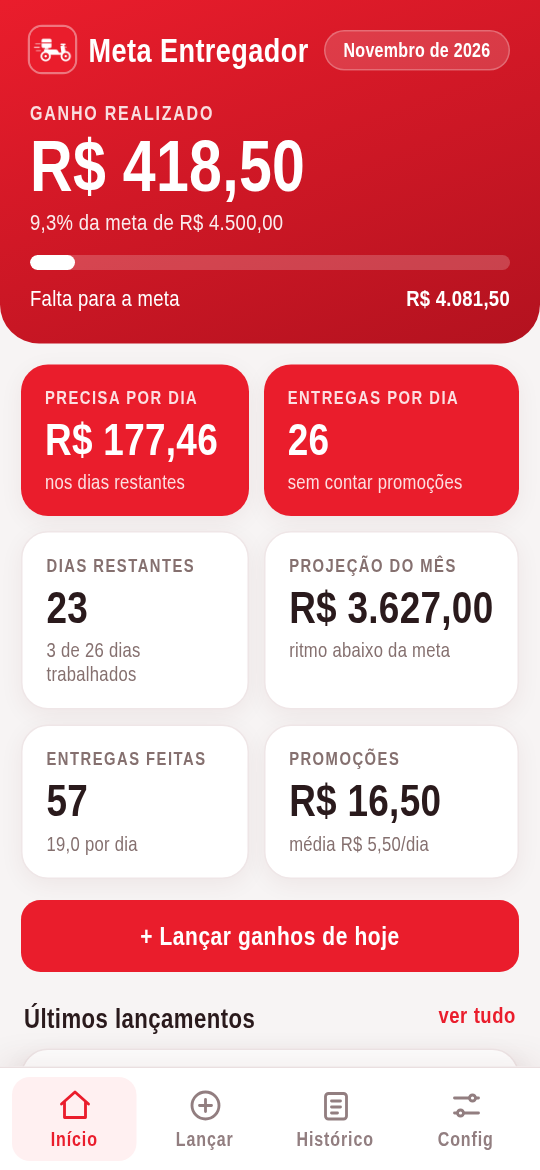
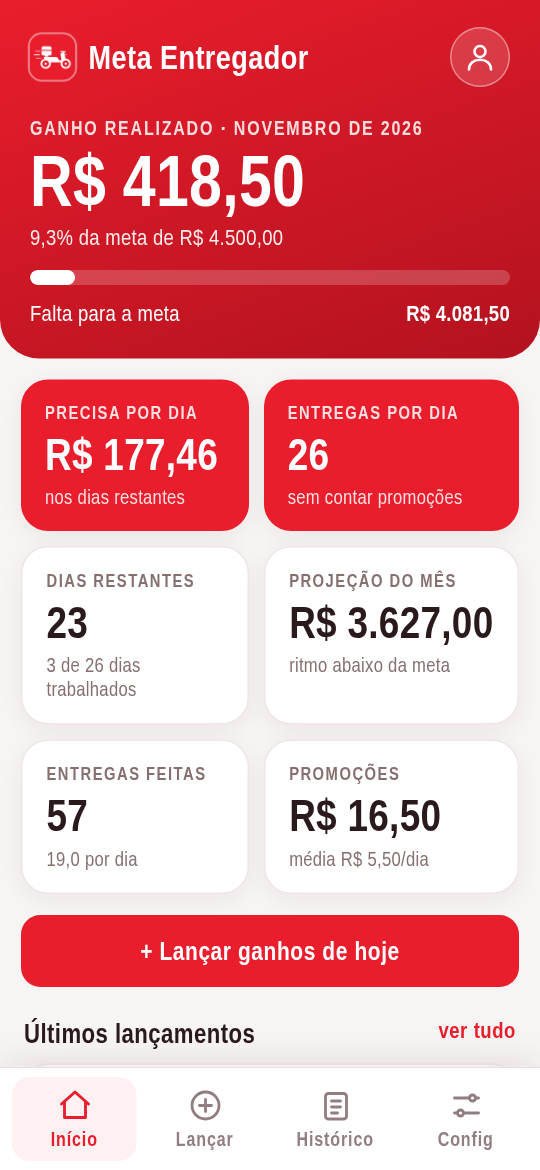
Add files via upload

diff --git a/index.html b/index.html
@@ -28,9 +28,13 @@ header{background:linear-gradient(160deg,var(--red),var(--dark));color:#fff;padd
 header .top{display:flex;justify-content:space-between;align-items:center}
 header h1{margin:0;font-size:22px;font-weight:700;letter-spacing:.3px;display:flex;align-items:center;gap:9px}
 header h1 img{width:30px;height:30px;border-radius:8px;box-shadow:0 0 0 1.5px #ffffff66}
-header .month{font-size:13px;font-weight:700;background:#ffffff26;border:1px solid #ffffff40;padding:5px 12px;border-radius:99px}
+.avatar{position:relative;width:40px;height:40px;border-radius:50%;padding:0;background:#ffffff26;border:1.5px solid #ffffff66;color:#fff;display:flex;align-items:center;justify-content:center;flex:none}
+.avatar img{width:100%;height:100%;border-radius:50%;object-fit:cover}
+.avatar svg{width:22px;height:22px;stroke:#fff;fill:none;stroke-width:1.9;stroke-linecap:round;stroke-linejoin:round}
+.avatar .st{position:absolute;right:-1px;bottom:-1px;width:12px;height:12px;border-radius:50%;border:2px solid var(--red);background:#9aa0a6}
+.avatar .st.ok{background:#34d27b}.avatar .st.sync{background:#ffcc3d}.avatar .st.err{background:#2a1a1c}
 .hero{margin-top:20px}
-.hero .lbl{font-size:13px;font-weight:700;opacity:.85;letter-spacing:1.2px}
+.hero .lbl{font-size:13px;font-weight:700;opacity:.85;letter-spacing:1.2px;text-transform:uppercase}
 .hero .big{font-size:48px;font-weight:700;line-height:1.05;margin:2px 0 4px;letter-spacing:.2px}
 .hero .meta{font-size:15px;opacity:.92}
 .progress{height:10px;background:#ffffff33;border-radius:99px;overflow:hidden;margin-top:14px}
@@ -73,14 +77,24 @@ nav button.active{color:var(--red);background:#fff0f1}
 .toast{position:fixed;left:50%;bottom:98px;transform:translateX(-50%);background:#2a1a1c;color:#fff;padding:10px 18px;border-radius:99px;font-size:15px;opacity:0;pointer-events:none;transition:.3s;z-index:20;white-space:nowrap}
 .toast.show{opacity:1}
 .hidden{display:none!important}
+.acc-text{font-size:15px;color:#5d4749;line-height:1.35;margin-bottom:14px}
+.gbtn{width:100%;display:flex;align-items:center;justify-content:center;gap:10px;background:#fff;color:#3c4043;border:1px solid #dadce0;font-weight:700}
+.gbtn:active{background:#f6f6f6}.gbtn svg{width:20px;height:20px}
+.acc{display:flex;align-items:center;gap:12px;margin-bottom:12px}
+.acc .pic{width:46px;height:46px;border-radius:50%;background:var(--red);color:#fff;display:flex;align-items:center;justify-content:center;font-weight:700;font-size:20px;overflow:hidden;flex:none}
+.acc .pic img{width:100%;height:100%;object-fit:cover}
+.acc .n{font-weight:700;font-size:18px}.acc .e{font-size:14px;color:var(--muted);word-break:break-all}
+.status{display:flex;align-items:center;gap:8px;font-size:15px;background:#f8f3f3;border-radius:12px;padding:10px 12px;margin-bottom:12px}
+.status .dot{width:10px;height:10px;border-radius:50%;background:#9aa0a6;flex:none}
+.status.ok .dot{background:var(--green)}.status.sync .dot{background:#f5a300}.status.err .dot{background:var(--red)}
 </style>
 </head>
 <body>
 <div class="app">
 <header>
-  <div class="top"><h1><img src="icons/icon-192.png" alt="">Meta Entregador</h1><div class="month" id="month"></div></div>
+  <div class="top"><h1><img src="icons/icon-192.png" alt="">Meta Entregador</h1><button class="avatar" id="avatarBtn" onclick="go('cfg')" aria-label="Conta e backup"></button></div>
   <div class="hero">
-    <div class="lbl">GANHO REALIZADO</div>
+    <div class="lbl">GANHO REALIZADO · <span id="monthLbl"></span></div>
     <div class="big" id="earned">R$ 0,00</div>
     <div class="meta" id="goalText"></div>
     <div class="progress"><div class="bar" id="bar"></div></div>
@@ -128,7 +142,9 @@ nav button.active{color:var(--red);background:#fff0f1}
   </section>
 
   <section class="tab" id="tab-cfg">
-    <h2 style="margin-top:4px">Parâmetros da meta</h2>
+    <h2 style="margin-top:4px">Conta e backup</h2>
+    <div class="card" id="accountCard"></div>
+    <h2>Parâmetros da meta</h2>
     <div class="card">
       <div class="field"><label>Meta mensal (R$)</label><input id="goal" type="number" inputmode="decimal" step="0.01"></div>
       <div class="row2">
@@ -144,7 +160,7 @@ nav button.active{color:var(--red);background:#fff0f1}
     <p class="note hidden" id="iosHint">No iPhone: toque em Compartilhar e depois em “Adicionar à Tela de Início”.</p>
     <h2>Dados</h2>
     <div class="card"><button class="btn danger" onclick="clearAll()">Apagar todos os lançamentos</button></div>
-    <p class="note" style="text-align:center">Meta Entregador v1.2 · dados salvos neste aparelho</p>
+    <p class="note" style="text-align:center">Meta Entregador v1.3</p>
   </section>
 </main>
 
@@ -159,26 +175,131 @@ nav button.active{color:var(--red);background:#fff0f1}
 
 <script>
 const KEY='meta-entregador-v1';
-let state=JSON.parse(localStorage.getItem(KEY)||'null')||{goal:4500,rate:7,workDays:26,entries:[]};
+const DEFAULT={goal:4500,rate:7,workDays:26,settingsAt:0,entries:[],deleted:[]};
+let state=Object.assign({},DEFAULT,JSON.parse(localStorage.getItem(KEY)||'null')||{});
+state.entries=state.entries||[];state.deleted=state.deleted||[];
 const $=id=>document.getElementById(id);
 const fmt=v=>Number(v||0).toLocaleString('pt-BR',{style:'currency',currency:'BRL'});
 const num=id=>Number($(id).value||0);
 const br=d=>d.split('-').reverse().join('/');
+const esc=t=>String(t==null?'':t).replace(/[&<>"']/g,c=>({'&':'&amp;','<':'&lt;','>':'&gt;','"':'&quot;',"'":'&#39;'}[c]));
 function today(){const d=new Date();return d.getFullYear()+'-'+String(d.getMonth()+1).padStart(2,'0')+'-'+String(d.getDate()).padStart(2,'0')}
-function persist(){localStorage.setItem(KEY,JSON.stringify(state))}
-function toast(m){const t=$('toast');t.textContent=m;t.classList.add('show');setTimeout(()=>t.classList.remove('show'),1800)}
+function toast(m){const t=$('toast');t.textContent=m;t.classList.add('show');clearTimeout(toast._t);toast._t=setTimeout(()=>t.classList.remove('show'),2200)}
 function go(tab){
   document.querySelectorAll('.tab').forEach(s=>s.classList.toggle('active',s.id==='tab-'+tab));
   document.querySelectorAll('nav button').forEach(b=>b.classList.toggle('active',b.dataset.tab===tab));
   window.scrollTo({top:0,behavior:'smooth'});
 }
+
+/* ---------- dados locais + sincronização ---------- */
+const core=s=>({goal:s.goal,rate:s.rate,workDays:s.workDays,settingsAt:s.settingsAt||0,
+  entries:[...(s.entries||[])].sort((a,b)=>a.id-b.id||0).map(e=>({id:e.id,date:e.date,deliveries:e.deliveries||0,promo:e.promo||0,other:e.other||0})),
+  deleted:[...new Set(s.deleted||[])].sort((a,b)=>a-b)});
+const same=(a,b)=>JSON.stringify(core(a))===JSON.stringify(core(b));
+function merge(a,b){
+  const del=new Set([...(a.deleted||[]),...(b.deleted||[])]);
+  const map=new Map();
+  [...(a.entries||[]),...(b.entries||[])].forEach(e=>{if(!del.has(e.id)&&!map.has(e.id))map.set(e.id,e)});
+  const pick=(a.settingsAt||0)>=(b.settingsAt||0)&&a.goal!=null?a:(b.goal!=null?b:a);
+  return core({goal:pick.goal,rate:pick.rate,workDays:pick.workDays,settingsAt:pick.settingsAt||0,entries:[...map.values()],deleted:[...del]});
+}
+let Cloud=null,cloudState='loading',user=null,ready=false,dirty=false,syncStatus='idle',syncErr='',lastSync=Number(localStorage.getItem(KEY+'-last')||0),pushT=null,unwatch=null;
+function persist(skipSync){
+  localStorage.setItem(KEY,JSON.stringify(core(state)));
+  if(!skipSync){dirty=true;if(user){clearTimeout(pushT);pushT=setTimeout(pushNow,500)}}
+}
+function setStatus(st,err){syncStatus=st;syncErr=err?(err.code||err.message||String(err)):'';renderAccount()}
+function markSynced(){lastSync=Date.now();localStorage.setItem(KEY+'-last',lastSync)}
+async function pushNow(){
+  if(!user||!ready||!Cloud)return;
+  if(!navigator.onLine){setStatus('offline');return}
+  setStatus('syncing');
+  try{await Cloud.push(user.uid,Object.assign(core(state),{updatedAt:Date.now()}));dirty=false;markSynced();setStatus('ok')}
+  catch(e){setStatus('error',e)}
+}
+function onRemote(remote,pending){
+  const merged=merge(state,remote||{});
+  if(!same(merged,state)){state=Object.assign({},state,merged);persist(true);render()}
+  if(pending)return;
+  ready=true;
+  if(!remote||!same(merged,remote))pushNow();
+  else{dirty=false;markSynced();setStatus('ok')}
+}
+function startUser(u){
+  user=u;ready=false;setStatus('syncing');
+  if(unwatch)unwatch();
+  unwatch=Cloud.watch(u.uid,onRemote,err=>setStatus('error',err));
+}
+function stopUser(){if(unwatch)unwatch();unwatch=null;user=null;ready=false;syncStatus='idle';renderAccount()}
+async function signIn(){
+  if(!Cloud||cloudState!=='ready'){await bootCloud();if(cloudState!=='ready'){toast('Sem conexão com o serviço do Google');return}}
+  toast('Abrindo login do Google…');
+  const r=await Cloud.signIn();
+  if(!r.ok){
+    const m={'auth/popup-closed-by-user':'','auth/cancelled-popup-request':'','auth/unauthorized-domain':'Domínio não autorizado no Firebase','auth/network-request-failed':'Sem conexão com a internet'}[r.code];
+    if(m!=='')toast(m||'Não foi possível entrar ('+(r.code||'erro')+')');
+  }
+}
+function syncNow(){
+  if(!user)return;
+  if(!ready){setStatus(navigator.onLine?'syncing':'offline');return}
+  pushNow();
+}
+async function signOutUser(){
+  const msg=dirty?'Há alterações que ainda NÃO foram enviadas para a nuvem e serão perdidas neste aparelho. Sair mesmo assim?':'Sair da conta? Os dados deste aparelho serão removidos, mas continuam salvos na sua conta Google.';
+  if(!confirm(msg))return;
+  try{await Cloud.signOut()}catch(e){}
+  stopUser();
+  state=Object.assign({},DEFAULT,{entries:[],deleted:[]});persist(true);dirty=false;render();toast('Você saiu da conta');
+}
+function ago(t){if(!t)return'';const s=Math.round((Date.now()-t)/1000);if(s<45)return'agora';if(s<3600)return'há '+Math.round(s/60)+' min';if(s<86400)return'há '+Math.round(s/3600)+' h';return'em '+new Date(t).toLocaleDateString('pt-BR')}
+const G='<svg viewBox="0 0 48 48"><path fill="#EA4335" d="M24 9.5c3.5 0 6.6 1.2 9.1 3.6l6.8-6.8C35.9 2.4 30.4 0 24 0 14.6 0 6.5 5.4 2.6 13.2l7.9 6.1C12.4 13.6 17.7 9.5 24 9.5z"/><path fill="#4285F4" d="M46.5 24.5c0-1.6-.1-3.1-.4-4.5H24v9h12.7c-.6 3-2.3 5.5-4.8 7.2l7.5 5.8c4.4-4.1 7.1-10.1 7.1-17.5z"/><path fill="#FBBC05" d="M10.5 28.7a14.5 14.5 0 0 1 0-9.4l-7.9-6.1a24 24 0 0 0 0 21.6l7.9-6.1z"/><path fill="#34A853" d="M24 48c6.5 0 11.9-2.1 15.9-5.8l-7.5-5.8c-2.1 1.4-4.9 2.3-8.4 2.3-6.3 0-11.6-4.1-13.5-9.8l-7.9 6.1C6.5 42.6 14.6 48 24 48z"/></svg>';
+function renderAccount(){
+  const box=$('accountCard'),av=$('avatarBtn');if(!box)return;
+  const userSvg='<svg viewBox="0 0 24 24"><circle cx="12" cy="8" r="4"/><path d="M4 21c0-4.4 3.6-7 8-7s8 2.6 8 7"/></svg>';
+  let dot='';
+  if(user){dot=syncStatus==='ok'?'ok':(syncStatus==='error'?'err':(syncStatus==='syncing'?'sync':''))}
+  av.innerHTML=(user&&user.photoURL?`<img src="${esc(user.photoURL)}" alt="" referrerpolicy="no-referrer">`:userSvg)+(user?`<span class="st ${dot}"></span>`:'');
+  if(!user){
+    if(cloudState==='unconfigured'){box.innerHTML='<div class="acc-text">O backup na nuvem ainda não foi configurado. Preencha o arquivo <b>firebase-config.js</b> (veja o LEIA-ME). Enquanto isso, os dados ficam só neste aparelho.</div>';return}
+    if(cloudState==='unavailable'){box.innerHTML='<div class="acc-text">Não foi possível conectar ao serviço de login. Verifique a internet e tente de novo. Seus dados continuam salvos neste aparelho.</div><button class="btn ghost" onclick="bootCloud()">Tentar novamente</button>';return}
+    box.innerHTML=`<div class="acc-text">Entre com sua conta Google para guardar um backup na nuvem e acessar seus ganhos em qualquer aparelho.</div><button class="btn gbtn" onclick="signIn()" ${cloudState==='loading'?'disabled':''}>${G}Entrar com Google</button>`;
+    return;
+  }
+  const name=user.displayName||'Minha conta',ini=esc(name.trim().charAt(0).toUpperCase());
+  let cls='',txt='';
+  if(!navigator.onLine||syncStatus==='offline'){cls='sync';txt='Sem conexão · sincroniza quando voltar'}
+  else if(syncStatus==='syncing'){cls='sync';txt='Sincronizando…'}
+  else if(syncStatus==='error'){cls='err';txt=(/permission/.test(syncErr)?'Sem permissão. Confira as regras do Firestore':'Erro ao sincronizar ('+esc(syncErr)+')')}
+  else if(syncStatus==='ok'){cls='ok';txt='Sincronizado '+ago(lastSync)}
+  else{txt='Conectado'}
+  box.innerHTML=`<div class="acc"><div class="pic">${user.photoURL?`<img src="${esc(user.photoURL)}" alt="" referrerpolicy="no-referrer">`:ini}</div><div><div class="n">${esc(name)}</div><div class="e">${esc(user.email)}</div></div></div>
+  <div class="status ${cls}"><span class="dot"></span><span>${txt}</span></div>
+  <div class="row2"><button class="ghost" onclick="syncNow()">Sincronizar</button><button class="danger" onclick="signOutUser()">Sair</button></div>`;
+}
+async function bootCloud(){
+  cloudState='loading';renderAccount();
+  try{
+    Cloud=Cloud||await import('./cloud.js');
+    if(!Cloud.configured()){cloudState='unconfigured';renderAccount();return}
+    await Cloud.init();
+    cloudState='ready';
+    if(!bootCloud._sub){bootCloud._sub=true;Cloud.onUser(u=>u?startUser(u):stopUser())}
+    renderAccount();
+  }catch(e){cloudState='unavailable';renderAccount()}
+}
+window.addEventListener('online',()=>{if(cloudState==='unavailable')bootCloud();else if(user){if(dirty||!ready)setStatus('syncing');pushNow()}});
+window.addEventListener('offline',()=>renderAccount());
+setInterval(()=>{if(user&&syncStatus==='ok')renderAccount()},60000);
+
+/* ---------- ações do app ---------- */
 function updatePreview(){
   const t=Math.round(num('deliveries'))*state.rate+num('promo')+num('other');
   $('preview').innerHTML='Total deste lançamento: <b>'+fmt(t)+'</b>';
 }
 ['deliveries','promo','other'].forEach(i=>$(i).addEventListener('input',updatePreview));
 function saveSettings(){
-  state.goal=num('goal')||4500;state.rate=num('rate')||7;state.workDays=Math.max(1,Math.round(num('workDays')||26));
+  state.goal=num('goal')||4500;state.rate=num('rate')||7;state.workDays=Math.max(1,Math.round(num('workDays')||26));state.settingsAt=Date.now();
   persist();render();toast('Configuração salva');go('home');
 }
 function addEntry(){
@@ -189,8 +310,8 @@ function addEntry(){
   state.entries.sort((a,b)=>a.date.localeCompare(b.date)||a.id-b.id);
   persist();['deliveries','promo','other'].forEach(i=>$(i).value='');updatePreview();render();toast('Lançamento adicionado');go('home');
 }
-function removeEntry(id){if(confirm('Excluir este lançamento?')){state.entries=state.entries.filter(e=>e.id!==id);persist();render()}}
-function clearAll(){if(confirm('Apagar TODOS os lançamentos?')){state.entries=[];persist();render();toast('Lançamentos apagados')}}
+function removeEntry(id){if(confirm('Excluir este lançamento?')){state.entries=state.entries.filter(e=>e.id!==id);state.deleted.push(id);persist();render()}}
+function clearAll(){if(confirm('Apagar TODOS os lançamentos?'+(user?' Isso também apaga da nuvem.':''))){state.entries.forEach(e=>state.deleted.push(e.id));state.entries=[];persist();render();toast('Lançamentos apagados')}}
 function entryHtml(e,withDel){
   const t=e.deliveries*state.rate+e.promo+e.other;
   return `<div class="item"><div><div class="d">${br(e.date)}</div><div class="x">${e.deliveries} entregas · promo ${fmt(e.promo)}${e.other?' · outros '+fmt(e.other):''}</div></div><div class="t">${fmt(t)}${withDel?`<br><button class="del" onclick="removeEntry(${e.id})">Excluir</button>`:''}</div></div>`;
@@ -205,7 +326,7 @@ function render(){
   const delPerDay=Math.ceil(perDay/state.rate);
   const avg=worked?earned/worked:0,projection=earned+avg*daysLeft;
   const pct=Math.min(100,state.goal?earned/state.goal*100:0);
-  {const m=new Date().toLocaleDateString('pt-BR',{month:'long',year:'numeric'});$('month').textContent=m.charAt(0).toUpperCase()+m.slice(1)}
+  $('monthLbl').textContent=new Date().toLocaleDateString('pt-BR',{month:'long',year:'numeric'});
   $('earned').textContent=fmt(earned);$('remaining').textContent=fmt(remaining);
   $('goalText').textContent=pct.toFixed(1).replace('.',',')+'% da meta de '+fmt(state.goal);$('bar').style.width=pct+'%';
   $('perDay').textContent=fmt(perDay);$('delPerDay').textContent=delPerDay;
@@ -220,7 +341,7 @@ function render(){
   $('history').innerHTML=rev.length?rev.map(e=>entryHtml(e,true)).join(''):'<div class="empty">Nenhum dia lançado ainda.</div>';
 }
 
-/* PWA: instalação */
+/* ---------- PWA: instalação ---------- */
 let deferredPrompt=null;
 const standalone=matchMedia('(display-mode: standalone)').matches||navigator.standalone;
 window.addEventListener('beforeinstallprompt',e=>{e.preventDefault();deferredPrompt=e;if(!standalone)$('installBox').classList.remove('hidden')});
@@ -228,11 +349,10 @@ $('installBtn').addEventListener('click',async()=>{if(!deferredPrompt)return;def
 window.addEventListener('appinstalled',()=>{$('installBox').classList.add('hidden');toast('App instalado')});
 if(/iphone|ipad|ipod/i.test(navigator.userAgent)&&!standalone)$('iosHint').classList.remove('hidden');
 
-/* Atalho do ícone (?tab=add) */
 const startTab=new URLSearchParams(location.search).get('tab');
-
-$('date').value=today();updatePreview();render();
+$('date').value=today();updatePreview();render();renderAccount();
 if(['home','add','hist','cfg'].includes(startTab))go(startTab);
 if('serviceWorker'in navigator)window.addEventListener('load',()=>navigator.serviceWorker.register('sw.js'));
+bootCloud();
 </script>
 </body></html>

diff --git a/cloud.js b/cloud.js
@@ -1,0 +1,64 @@
+// Camada de nuvem (Firebase Auth + Firestore). Carregada sob demanda:
+// se estiver offline ou sem configuração, o app continua funcionando local.
+import { firebaseConfig } from './firebase-config.js';
+
+const V = '10.14.1';
+const B = `https://www.gstatic.com/firebasejs/${V}/`;
+const COLLECTION = 'metaEntregador';
+let fb = null, auth = null, db = null;
+
+export function configured() {
+  return !!(firebaseConfig && firebaseConfig.apiKey && firebaseConfig.projectId &&
+    !String(firebaseConfig.apiKey).startsWith('COLE') && !String(firebaseConfig.projectId).startsWith('COLE'));
+}
+
+export async function init() {
+  if (fb) return true;
+  const [app, au, fs] = await Promise.all([
+    import(B + 'firebase-app.js'),
+    import(B + 'firebase-auth.js'),
+    import(B + 'firebase-firestore.js')
+  ]);
+  const a = app.initializeApp(firebaseConfig);
+  auth = au.getAuth(a);
+  db = fs.getFirestore(a);
+  fb = { app, au, fs };
+  // resultado do login por redirecionamento (fallback)
+  try { await au.getRedirectResult(auth); } catch (e) { /* tratado no onUser/erro de tela */ }
+  return true;
+}
+
+export function onUser(cb) {
+  return fb.au.onAuthStateChanged(auth, cb);
+}
+
+export async function signIn() {
+  const { au } = fb;
+  const provider = new au.GoogleAuthProvider();
+  provider.setCustomParameters({ prompt: 'select_account' });
+  try {
+    await au.signInWithPopup(auth, provider);
+    return { ok: true };
+  } catch (e) {
+    const c = e && e.code;
+    if (c === 'auth/popup-blocked' || c === 'auth/operation-not-supported-in-this-environment') {
+      try { await au.signInWithRedirect(auth, provider); return { ok: true, redirect: true }; }
+      catch (e2) { return { ok: false, code: e2 && e2.code }; }
+    }
+    return { ok: false, code: c };
+  }
+}
+
+export function signOut() { return fb.au.signOut(auth); }
+
+export function watch(uid, onData, onError) {
+  const ref = fb.fs.doc(db, COLLECTION, uid);
+  return fb.fs.onSnapshot(ref,
+    snap => onData(snap.exists() ? snap.data() : null, !!(snap.metadata && snap.metadata.hasPendingWrites)),
+    err => onError && onError(err));
+}
+
+export function push(uid, data) {
+  const ref = fb.fs.doc(db, COLLECTION, uid);
+  return fb.fs.setDoc(ref, JSON.parse(JSON.stringify(data)));
+}

diff --git a/sw.js b/sw.js
@@ -1,7 +1,7 @@
-const VERSION='v1.2.0';
+const VERSION='v1.3.0';
 const CACHE='meta-entregador-'+VERSION;
 const ASSETS=[
-  './','./index.html','./manifest.json','./icon.svg',
+  './','./index.html','./manifest.json','./icon.svg','./cloud.js','./firebase-config.js',
   './fonts/narrow-400.woff2','./fonts/narrow-700.woff2',
   './icons/icon-192.png','./icons/icon-512.png',
   './icons/maskable-192.png','./icons/maskable-512.png',
@@ -15,12 +15,16 @@ self.addEventListener('activate',e=>{
 });
 self.addEventListener('fetch',e=>{
   const req=e.request;
+  // Só arquivos do próprio app. Login/Firestore/Google passam direto pela rede.
   if(req.method!=='GET'||new URL(req.url).origin!==location.origin)return;
   // Páginas: rede primeiro (pega atualização), cache como reserva offline
   if(req.mode==='navigate'){
     e.respondWith(fetch(req).then(res=>{const copy=res.clone();caches.open(CACHE).then(c=>c.put('./index.html',copy));return res}).catch(()=>caches.match('./index.html')));
     return;
   }
-  // Arquivos estáticos: cache primeiro
-  e.respondWith(caches.match(req,{ignoreSearch:true}).then(hit=>hit||fetch(req).then(res=>{const copy=res.clone();caches.open(CACHE).then(c=>c.put(req,copy));return res})));
+  // Demais arquivos: usa o cache e atualiza em segundo plano
+  e.respondWith(caches.match(req,{ignoreSearch:true}).then(hit=>{
+    const net=fetch(req).then(res=>{if(res&&res.ok){const copy=res.clone();caches.open(CACHE).then(c=>c.put(req,copy))}return res}).catch(()=>hit);
+    return hit||net;
+  }));
 });

diff --git a/firebase-config.js b/firebase-config.js
@@ -1,0 +1,14 @@
+// ================================================================
+//  CONFIGURAÇÃO DO FIREBASE  (preencha com os dados do SEU projeto)
+//  Firebase Console > Configurações do projeto > Seus apps > Web
+//  Enquanto estiver com "COLE_AQUI", o app funciona só no aparelho
+//  (sem login e sem backup na nuvem).
+// ================================================================
+export const firebaseConfig = {
+  apiKey: "COLE_AQUI",
+  authDomain: "COLE_AQUI.firebaseapp.com",
+  projectId: "COLE_AQUI",
+  storageBucket: "COLE_AQUI.appspot.com",
+  messagingSenderId: "COLE_AQUI",
+  appId: "COLE_AQUI"
+};
